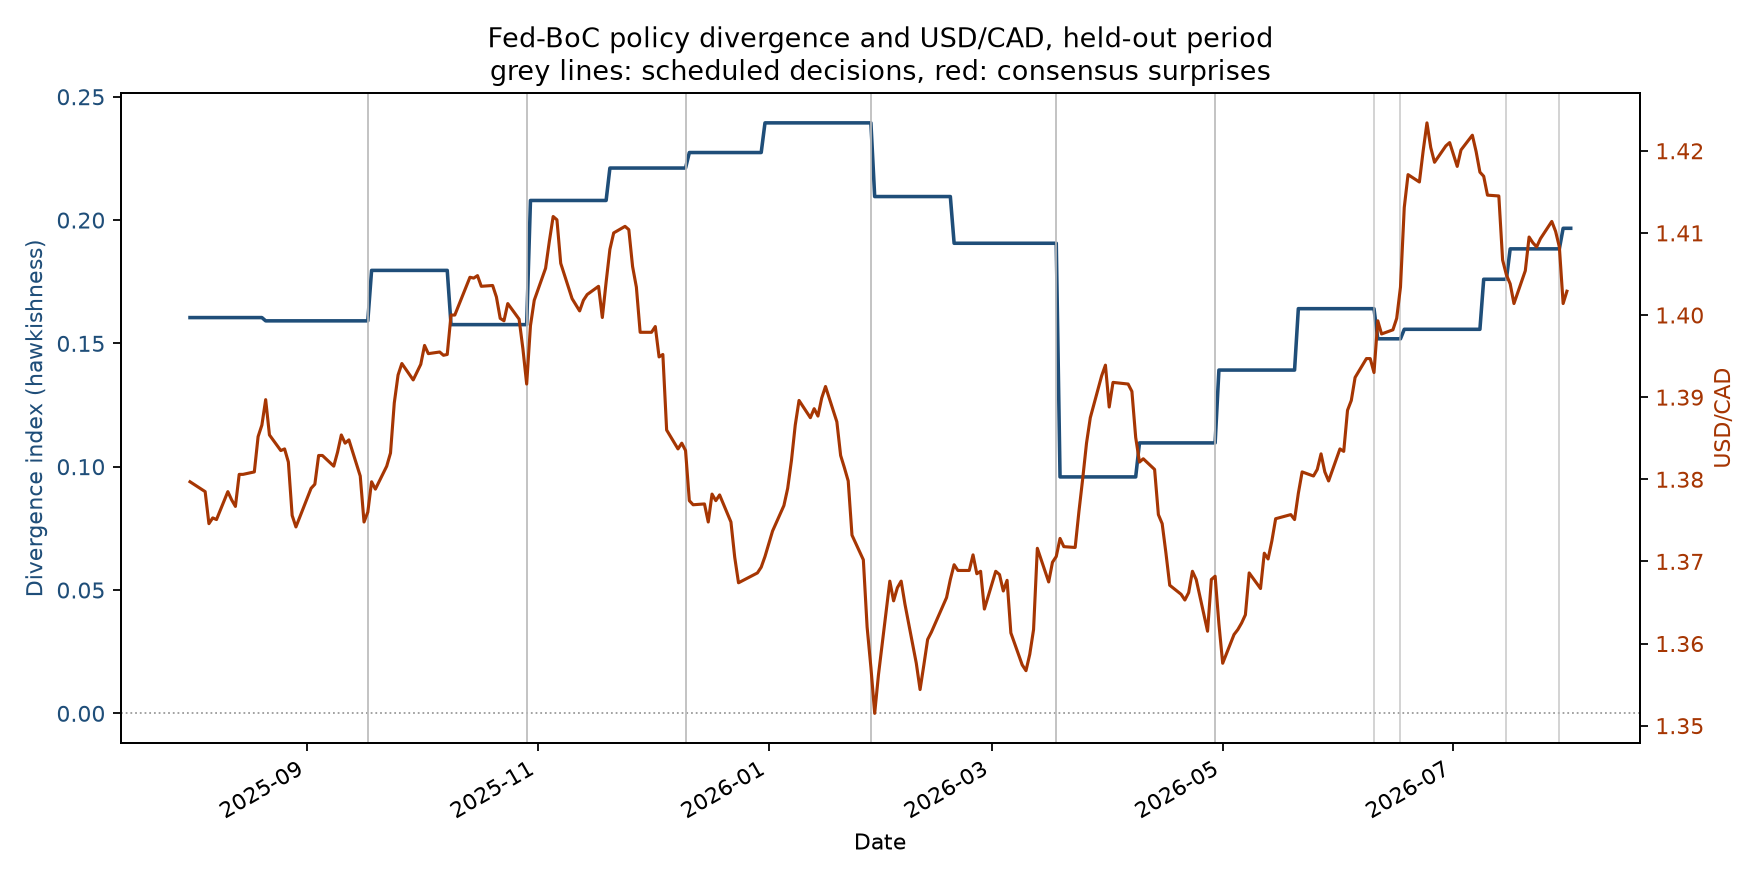
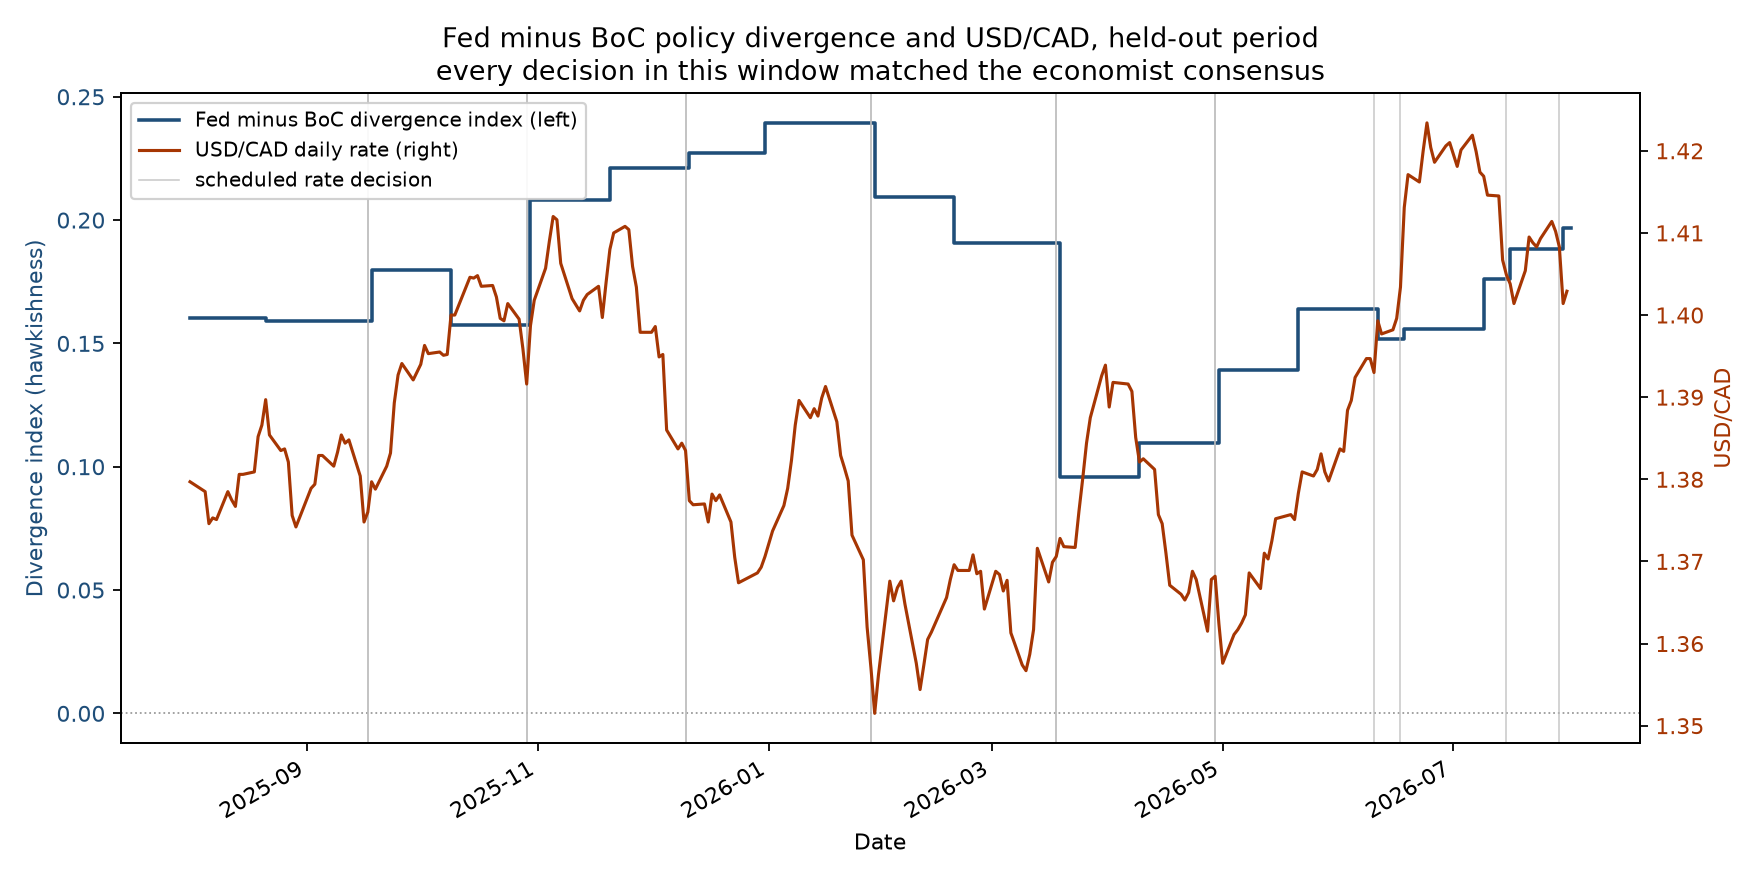
model card states real label provenance, refuse publish before human review

diff --git a/scripts/publish_hub.py b/scripts/publish_hub.py
@@ -55,9 +55,7 @@ appropriate to raise the target range" is not read as hawkish.
 Sentences from FOMC statements, FOMC minutes and Bank of Canada rate
 announcements, segmented with rules tuned to central bank prose. Labels
 follow the codebook in the repository, which adapts the annotation
-schemes of Shah, Paturi & Chava (2023) and Apel & Blix Grimaldi (2012);
-they are bootstrapped with a dictionary and LLM pass and then
-human-reviewed.
+schemes of Shah, Paturi & Chava (2023) and Apel & Blix Grimaldi (2012).
 
 - training sentences: {train_sentences}
 - validation sentences (chronological, from {val_start}): {val_sentences}
@@ -65,12 +63,16 @@ human-reviewed.
 - training cut date: {cut_date} (nothing published on or after this date
   was seen during training or model selection)
 
+{label_provenance}
+
 ## Evaluation
 
 Chronological holdout only; no random splits. All systems scored on the
-identical held-out sentences.
+identical held-out sentences, on CPU.
 
 {eval_table}
+
+{eval_caveat}
 
 ## Intended use
 
@@ -92,6 +94,10 @@ publication timestamp of every input is known.
 - Class balance in central bank text is uneven; check the per-class
   numbers in the table above rather than relying on the macro average
   alone.
+- Inference on Apple MPS is not reproducible: identical input scored
+  twice on MPS disagreed on up to 79 of 595 sentences, while CPU
+  inference was exact across repeats. Score on CPU when a number has to
+  be reproducible.
 
 ## Reproducing
 
@@ -126,6 +132,8 @@ def main():
     parser.add_argument("--source-url", default="https://github.com/elliotnou/cbsent")
     parser.add_argument("--push", action="store_true",
                         help="actually upload; without this the card is only written")
+    parser.add_argument("--publish-provisional", action="store_true",
+                        help="allow publishing before any human label review")
     args = parser.parse_args()
 
     load_dotenv()
@@ -135,9 +143,35 @@ def main():
         raise SystemExit(f"{config_path} not found; train a model first")
     config = json.load(open(config_path, encoding="utf-8"))
 
+    human = config["human_labelled"]
+    if human:
+        label_provenance = (
+            f"Labels were bootstrapped with the dictionary method and an LLM "
+            f"pass, then reviewed by a human against the codebook; "
+            f"{human} of the training labels are human-verified."
+        )
+        eval_caveat = ""
+    else:
+        label_provenance = (
+            "Labels in this release come from the dictionary and LLM bootstrap "
+            "passes only. No human review has been applied yet."
+        )
+        eval_caveat = (
+            "**These numbers are provisional.** The reference labels for the "
+            "held-out year come from an LLM bootstrap pass rather than a human, "
+            "so the zero-shot row is inflated by sharing a model family and "
+            "prompt with the labeller, and the fine-tuned row is measured "
+            "partly against its own training signal. The defensible comparison "
+            "in this release is the margin over the dictionary baseline, which "
+            "shares nothing with the labeller. Treat the table as a pipeline "
+            "check, not as accuracy."
+        )
+
     card = CARD_TEMPLATE.format(
         repo_id=args.repo_id,
         source_url=args.source_url,
+        label_provenance=label_provenance,
+        eval_caveat=eval_caveat,
         stance_labels=", ".join(config["stance_labels"]),
         topic_labels=", ".join(config["topic_labels"]),
         negation_note=("enabled for these weights" if config["use_negation_markers"]
@@ -162,6 +196,14 @@ def main():
     if not args.push:
         print("dry run: nothing uploaded. Re-run with --push to publish.")
         return
+
+    if not human and not args.publish_provisional:
+        raise SystemExit(
+            "refusing to publish: this model's labels have had no human review, "
+            "so its evaluation table is provisional. Work through the review "
+            "queue first, or pass --publish-provisional to publish anyway with "
+            "the caveat shown on the card."
+        )
 
     token = os.getenv("HF_TOKEN")
     if not token:

diff --git a/RESULTS.md b/RESULTS.md
@@ -178,3 +178,15 @@ Effect of cue marking: +0.0522 macro-F1 overall, +0.0163 on cue sentences.
 - FX alignment basis: daily, intraday
 - horizon after release: 60 minutes (intraday) or next available daily rate
 - result: no consensus surprises occurred in this window: every scheduled decision matched the economist consensus recorded in data/decisions.csv. Across all 15 scheduled decisions, the index moved directionally ahead of the pair on 9 of 15.
+
+## Event study, 2025-08-01 to 2026-08-01 (2026-08-11)
+
+- command: `python scripts/event_study.py --eval-start 2025-08-01 --eval-end 2026-08-01 --horizon-minutes 60`
+- git commit: `e85df07`
+- scheduled decisions in window: 16
+- inference device: cpu
+- decisions with index and FX data: 15
+- consensus surprises: 0
+- FX alignment basis: intraday
+- horizon after release: 60 minutes (intraday) or next available daily rate
+- result: no consensus surprises occurred in this window: every scheduled decision matched the economist consensus recorded in data/decisions.csv. Across all 15 scheduled decisions, the index moved directionally ahead of the pair on 9 of 15 (two-sided binomial p = 0.607 against a fair coin, not distinguishable from chance).
